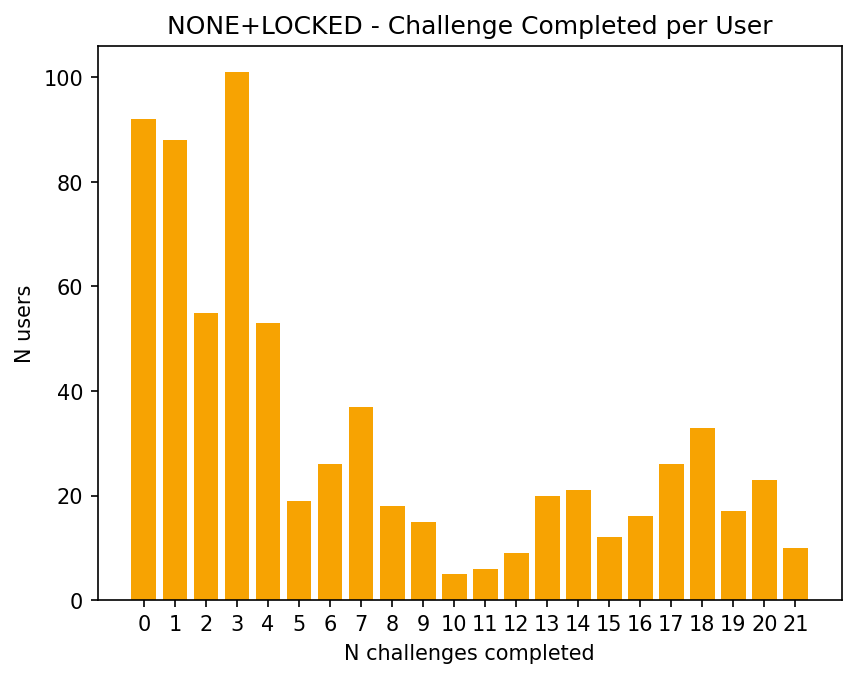
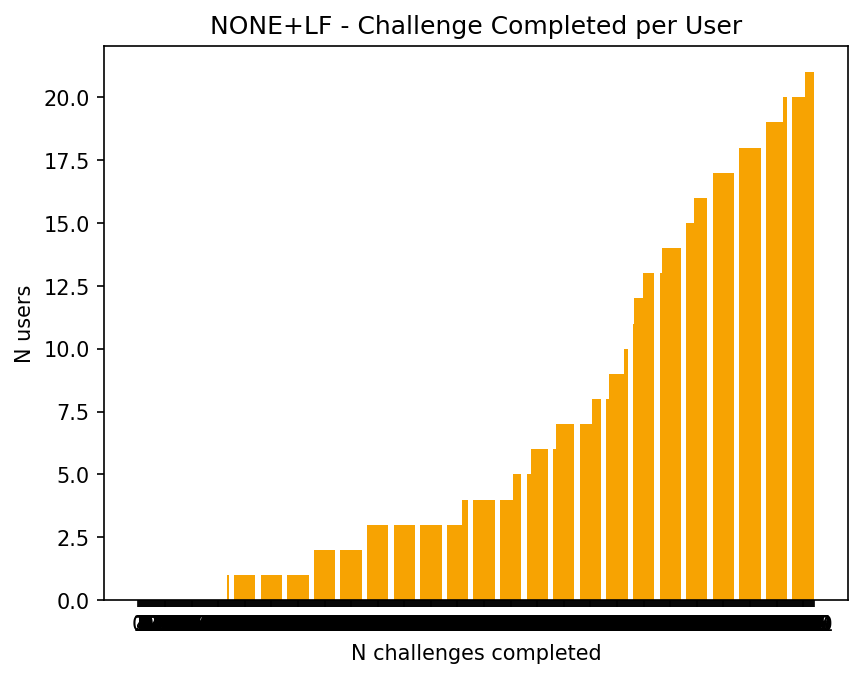
Add new funnels and better box plots

Changed region(s): [[0.1519, 0.0929, 0.972, 0.9912], [0.0304, 0.0619, 0.1215, 0.8982], [0.1822, 0.0, 0.9112, 0.0619]]

diff --git a/main.py b/main.py
@@ -2,61 +2,101 @@
 
 from plotly import graph_objects as go
 
-steps = ['Entering intro screen', 'Starting informational cards', 'Starting input cards', 'Completed challenge']
 
 fig = go.Figure()
 
-fig.add_trace(go.Funnel(
-    name = 'No paper ads',
-    orientation = "h",
-    y = steps,
-    x = [415, None, 220, 155],
-    textposition = "inside",
-    textinfo = "value+percent initial"))
 
-fig.add_trace(go.Funnel(
-    name = 'Citizen Proposal',
-    orientation = "h",
-    y = steps,
-    x = [501, 365, 319, 222,],
-    textposition = "inside",
-    textinfo = "value+percent initial"))
+def newNumbers():
+    steps = ['Entering intro screen', 'Starting intro chat', 'Starting input cards', 'Completed challenge']
+
+    fig.add_trace(go.Funnel(
+        name='No paper ads',
+        orientation="h",
+        y=steps,
+        x=[1984, 829, 274, 228],
+        textposition="inside",
+        textinfo="value+percent initial"))
+
+    fig.add_trace(go.Funnel(
+        name='Citizen Proposal',
+        orientation="h",
+        y=steps,
+        x=[651, 398, 274, 172, ],
+        textposition="inside",
+        textinfo="value+percent initial"))
+
+    fig.add_trace(go.Funnel(
+        name='Switch electricy',
+        y=steps,
+        x=[2481, 1349, 986, 60],
+        textinfo="value+percent initial"))
 
 
-fig.add_trace(go.Funnel(
-    name = 'Switch electricy',
-    y = steps,
-    x = [720, 446, 430, 61],
-    textinfo = "value+percent initial"))
+    fig.add_trace(go.Funnel(
+        name='Flight free',
+        orientation="h",
+        y=steps,
+        x=[827, 353, 241, 225, ],
+        textposition="inside",
+        textinfo="value+percent initial"))
 
-fig.add_trace(go.Funnel(
-    name = 'Flight free',
-    orientation = "h",
-    y = steps,
-    x = [399, 214, 133, 121,],
-    textposition = "inside",
-    textinfo = "value+percent initial"))
 
-fig.add_trace(go.Funnel(
-    name = 'Buy LED quiz',
-    orientation = "h",
-    y = steps,
-    x = [226, 199, 192, 185],
-    textposition = "inside",
-    textinfo = "value+percent initial"))
+
+
+def baselineNumbers():
+    steps = ['Entering intro screen', 'Starting intro cards', 'Starting input cards', 'Completed challenge']
+
+    fig.add_trace(go.Funnel(
+        name = 'No paper ads',
+        orientation = "h",
+        y = steps,
+        x = [415, None, 220, 155],
+        textposition = "inside",
+        textinfo = "value+percent initial"))
+
+    fig.add_trace(go.Funnel(
+        name = 'Citizen Proposal',
+        orientation = "h",
+        y = steps,
+        x = [501, 365, 319, 222,],
+        textposition = "inside",
+        textinfo = "value+percent initial"))
+
+
+    fig.add_trace(go.Funnel(
+        name = 'Switch electricy',
+        y = steps,
+        x = [720, 446, 430, 61],
+        textinfo = "value+percent initial"))
+
+    fig.add_trace(go.Funnel(
+        name = 'Flight free',
+        orientation = "h",
+        y = steps,
+        x = [399, 214, 133, 121,],
+        textposition = "inside",
+        textinfo = "value+percent initial"))
+
+    # fig.add_trace(go.Funnel(
+    #     name = 'Buy LED quiz',
+    #     orientation = "h",
+    #     y = steps,
+    #     x = [226, 199, 192, 185],
+    #     textposition = "inside",
+    #     textinfo = "value+percent initial"))
+    # #
+    # fig.add_trace(go.Funnel(
+    #     name = 'Buy LED challenge',
+    #     orientation = "h",
+    #     y = steps,
+    #     x = [176, None, None, 137,],
+    #     textposition = "inside",
+    #     textinfo = "value+percent initial"))
+    #
 #
-fig.add_trace(go.Funnel(
-    name = 'Buy LED challenge',
-    orientation = "h",
-    y = steps,
-    x = [176, None, None, 137,],
-    textposition = "inside",
-    textinfo = "value+percent initial"))
-#
-#
 #
 
-
+baselineNumbers()
 
 
 

diff --git a/split-tests.py b/split-tests.py
@@ -1,10 +1,13 @@
+import statistics
+
 from matplotlib import pyplot
 import numpy as np
 from tools import removeItem, HEADER,BA,AB,BB,AA, get_stats, barPlot, combine, fromHistToData, boxPlots, hist, toInt, getDropOff
 import matplotlib.pyplot as plt
 from scipy import stats
 import csv
-from statistics import mean
+from statistics import mean, stdev
+import math
 
 sets = {
   HEADER: [],
@@ -15,11 +18,11 @@ sets = {
 }
 
 
-
 with open('/Users/macbook/PycharmProjects/funnel-plotting/full-funnel.csv', newline='') as csvfile:
   spamreader = csv.reader(csvfile, delimiter=';')
   for row in spamreader:
       sets[row[0]] = toInt(row[1:])
+
 
 
 def printMannwhitneyu(experiment, control, set):
@@ -39,23 +42,47 @@ def printMannwhitneyu(experiment, control, set):
 histSets = {}
 for key in sets.keys():
   dropOffs = getDropOff(sets[key])
-  histSets[key] = removeItem(dropOffs, 4)
+  histSets[key] = dropOffs
 
+#
+# printMannwhitneyu(BB, AA, histSets)
+# printMannwhitneyu(BA, AB, histSets)
+#
+# printMannwhitneyu(AB, AA, histSets)
+# printMannwhitneyu(AB, BB, histSets)
+#
+# printMannwhitneyu(BA, AA, histSets)
+# printMannwhitneyu(BA, BB, histSets)
 
-printMannwhitneyu(BB, AA, histSets)
-printMannwhitneyu(BA, AB, histSets)
+# boxPlots([histSets[AA], histSets[BB], histSets[BA], histSets[AB]], [AA, BB, BA, AB])
+# barPlot(histSets[AB], AB)
+# barPlot(histSets[AA], AA)
+# barPlot(histSets[BB], BB)
+# barPlot(histSets[BA], BA)
+# barPlot(histSets[AB], AB)
+# barPlot(histSets[AB], AB)
+# barPlot(histSets[AB], AB)
 
-printMannwhitneyu(AB, AA, histSets)
-printMannwhitneyu(AB, BB, histSets)
+def round2dec(number, round = 2):
+  return math.ceil(number * (10 ** round)) / (10 ** round)
 
-printMannwhitneyu(BA, AA, histSets)
-printMannwhitneyu(BA, BB, histSets)
+def stats(sets, which):
+  data = fromHistToData(sets)
+  median = statistics.median(data)
+  m = round2dec(mean(data))
+  std = round2dec(stdev(data))
+  n = (len(data))
+  nchal = str(sum(data))
+  print(which, '&', n, '&', m, '(n:', nchal + ')', '&', std, '&', median, '\\\\ \hline')
 
-boxPlots([histSets[BA], histSets[AB]])
-barPlot(histSets[AB], AB)
+stats(histSets[AB], AB)
+stats(histSets[AA], AA)
+stats(histSets[BB], BB)
+stats(histSets[BA], BA)
 
 # hist(fromHistToData(abCounts))
 # print(statistics.stdev(fromHistToData(aaCounts)))
+
 
 
 def createDistributions ():

diff --git a/tools.py b/tools.py
@@ -1,10 +1,10 @@
 import statistics
 import matplotlib.pyplot as plt
 import numpy as np
-HEADER = "CHAINED / UNLOCK"
-BA = 'CHAINED+NONE'
-AB = 'NONE+LOCKED'
-BB = 'CHAINED+LOCKED'
+HEADER = "CCF / LF"
+BA = 'CCF+NONE'
+AB = 'NONE+LF'
+BB = 'CCF+LF'
 AA = 'NONE+NONE'
 
 colors = {
@@ -18,24 +18,29 @@ colors = {
 def hist(data):
   plt.hist(data, bins=len(data))
   plt.show()
+  plt.clf()
+
 
 def removeItem(data, item):
-  print(data)
   del data[item]
-  print(data)
   return data
 
-def boxPlots (histData):
+def boxPlots (histData, labels):
   data_to_plot = list(map(fromHistToData, histData))
   # Create a figure instance
   fig = plt.figure(1, figsize=(9, 6), )
   # Create an axes instance
   # Create the boxplot
-  plt.xticks(['in', 'ins'])
-
+  plt.xlabel("Prototype")
+  plt.ylabel("N challenges completed")
   ax = fig.add_subplot(111)
   bp = ax.boxplot(data_to_plot)
+  plt.xticks(list(range(1, len(histData) + 1)), labels)
+
+  plt.savefig('/Users/macbook/PycharmProjects/funnel-plotting/boxPlot.png', bbox_inches='tight', dpi=150)
   plt.show()
+  plt.clf()
+
   # fig.savefig('fig1.png', bbox_inches='tight')
 
 def toInt(_list):
@@ -86,11 +91,33 @@ def barPlot(counts, protoType):
   plt.bar(x, counts, color=colors[protoType])
   plt.xlabel("N challenges completed")
   plt.ylabel("N users")
-  plt.title(protoType + " - Challenge Completed per User")
+  plt.title(protoType + " - Challenge completed per user")
 
   plt.xticks(x, x)
+  plt.ylim(0, 300)
 
-  plt.savefig('/Users/macbook/PycharmProjects/funnel-plotting/fig1.png', bbox_inches='tight', dpi=150)
+  plt.savefig('/Users/macbook/PycharmProjects/funnel-plotting/barPlots' + protoType + '.png', bbox_inches='tight', dpi=150)
+  plt.clf()
+
+def lineChart (histData, labels):
+  data_to_plot = list(map(fromHistToData, histData))
+  # Create a figure instance
+  fig = plt.figure(1, figsize=(9, 6), )
+  # Create an axes instance
+  # Create the boxplot
+
+  ax = fig.add_subplot(111)
+  bp = ax.boxplot(data_to_plot)
+  plt.xlabel("N challenges completed")
+  plt.ylabel("N users")
+
+  plt.xticks(list(range(1, len(histData) + 1)), labels)
+
+  plt.savefig('/Users/macbook/PycharmProjects/funnel-plotting/boxPlot.png', bbox_inches='tight', dpi=150)
+  plt.show()
+  plt.clf()
+
+  # fig.savefig('fig1.png', bbox_inches='tight')
 
 
 def combine(list1, list2):
